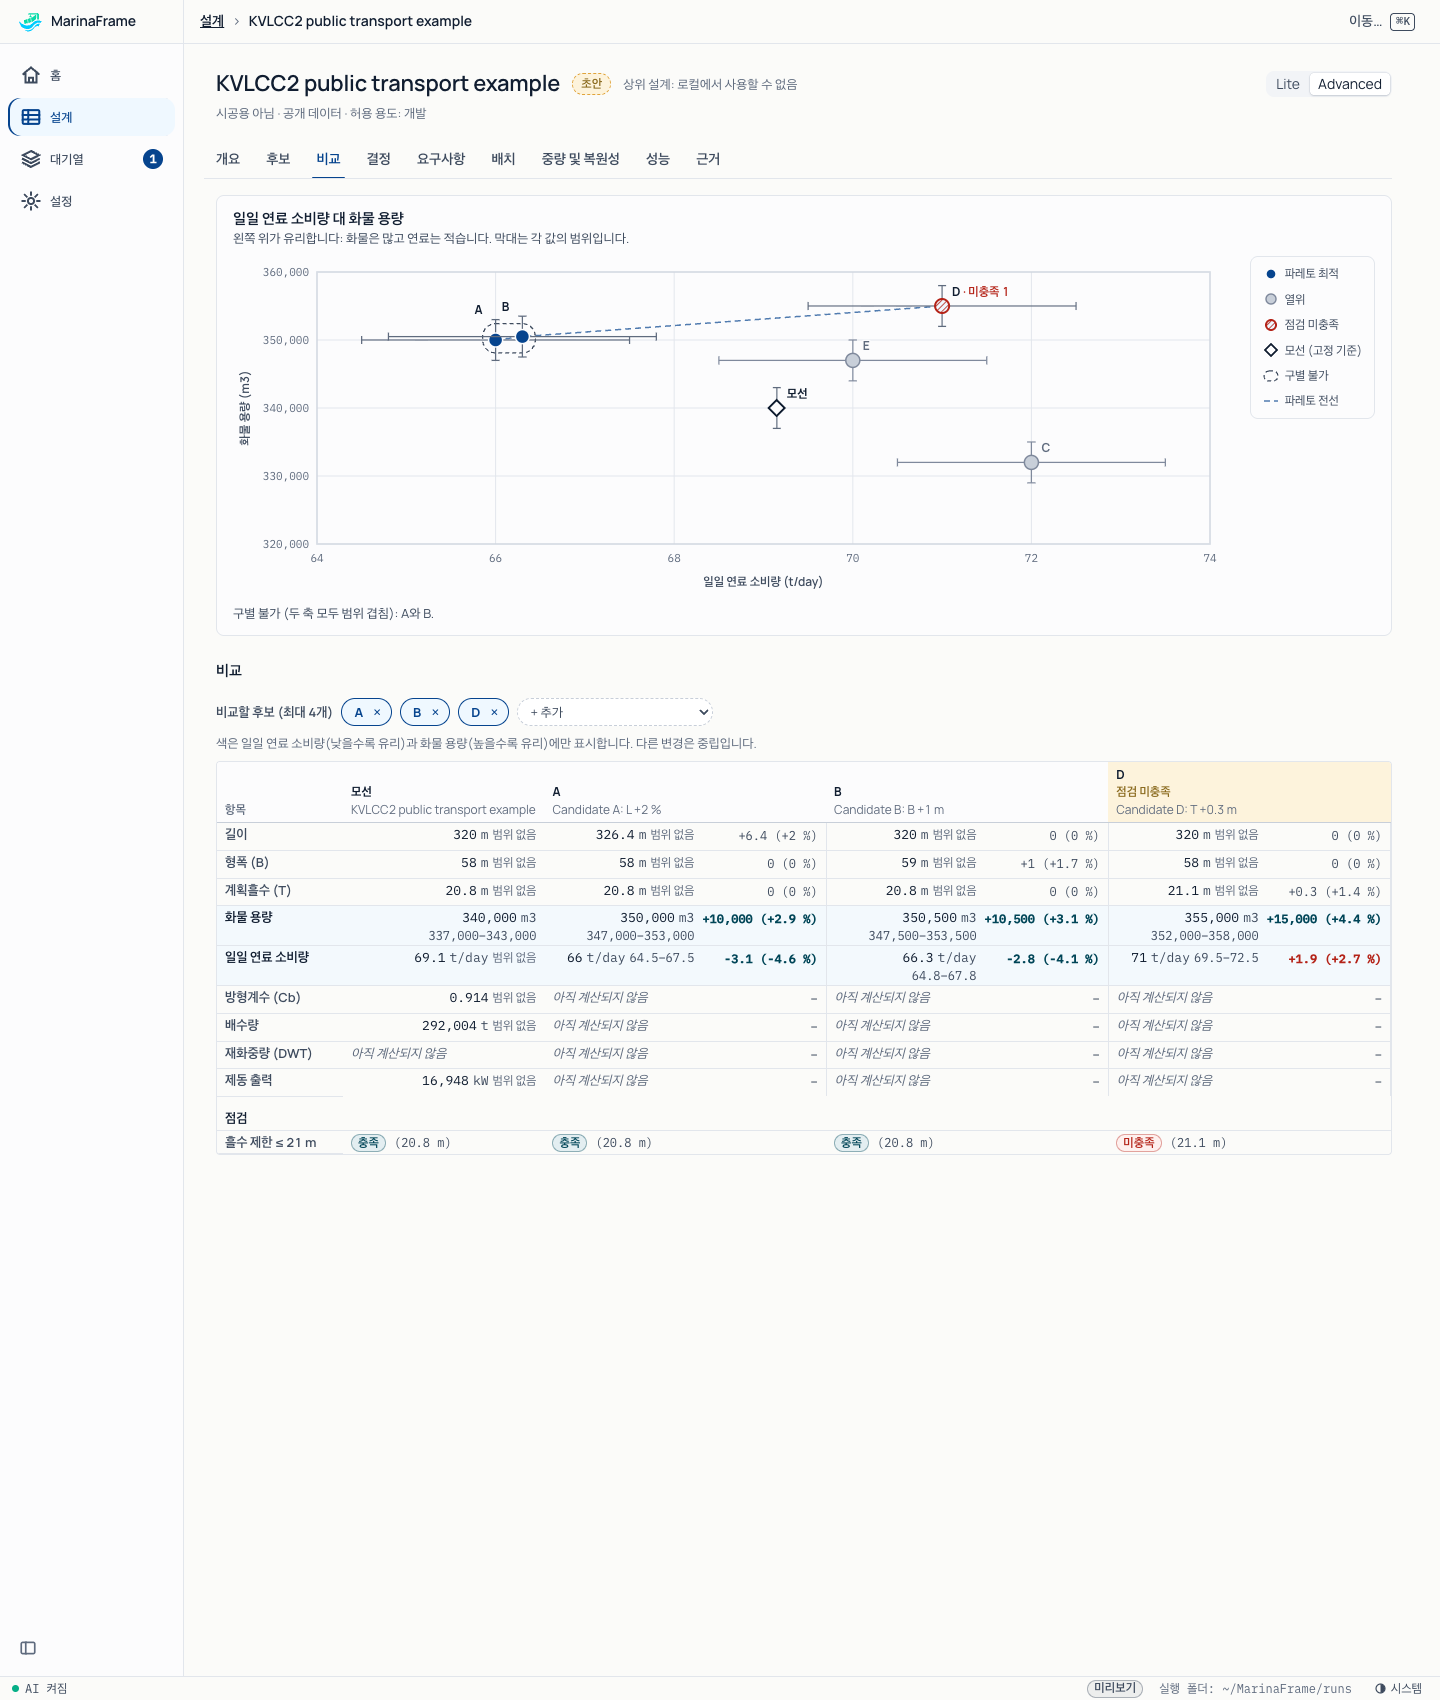
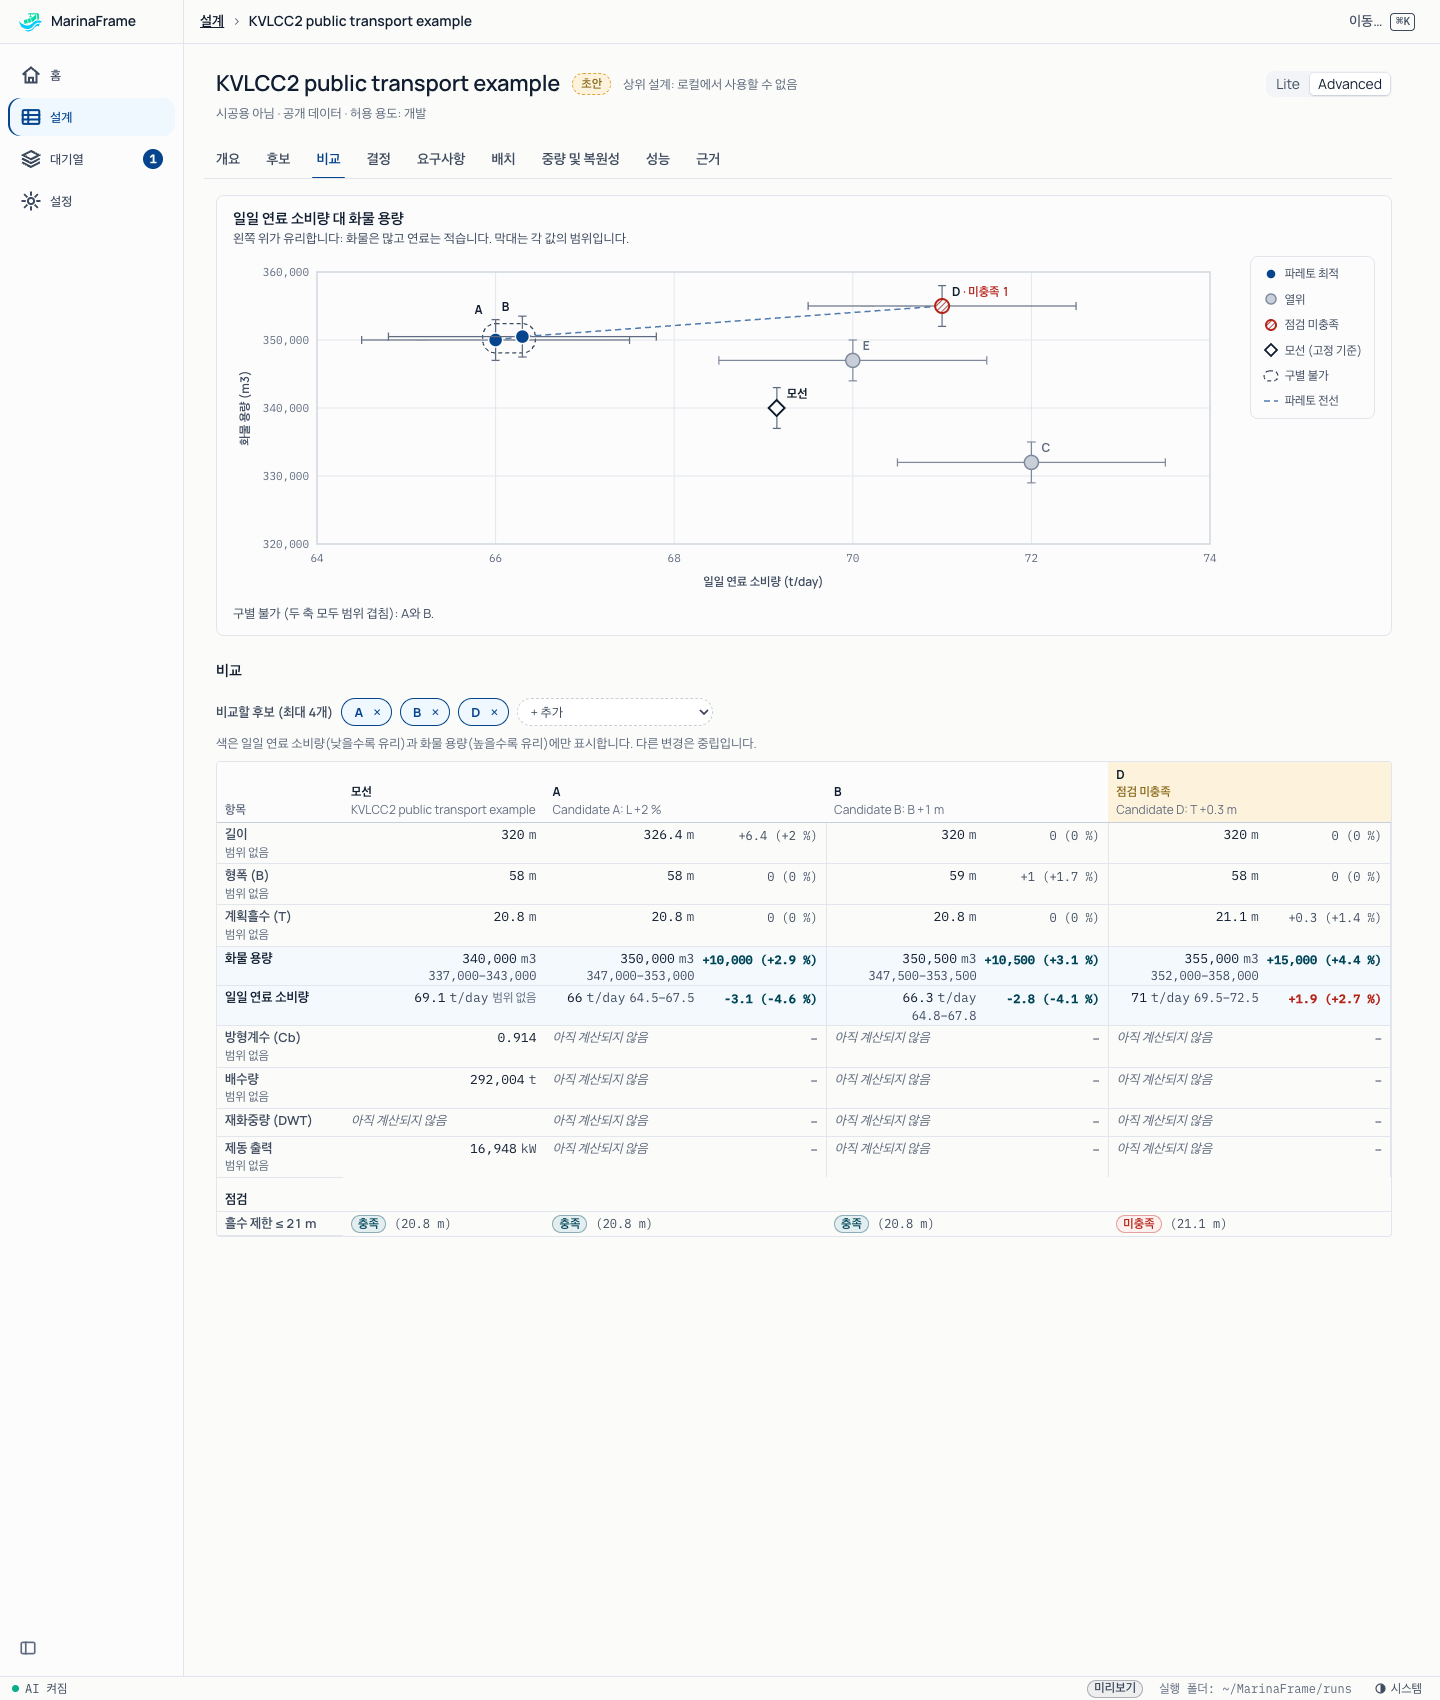
fix(design): one no-band mark per Compare row, narrow Compare, Lite missing list
Compare states "no band" once in the row label when no value in the row has a band.
At narrow widths the labels stay in view, a hint says the columns scroll, and the
Checks rows are no longer hidden by the shared table height limit.
The Lite "Not supplied" list leaves out the customer ID and the decisions field.
Plan progress updated for phase 2.

diff --git a/app/ui/js/design_project.js b/app/ui/js/design_project.js
@@ -231,11 +231,28 @@ function chartFor(project) {
   return paretoChart(project.points, { info: project.info, checkLabel, onOpen: openDesign });
 }
 
+/** True when no known value in the row has a band: the row header then says "no band" once. */
+function rowHasNoBand(row) {
+  const known = [row.parent, ...row.candidates].filter((entry) => entry.state !== 'unknown');
+  return known.length > 0 && known.every((entry) => !entry.quantity.uncertainty);
+}
+
+/** The row label, with one quiet "no band" mark (and its reason) when no value in the row has one. */
+function compareRowHead(row) {
+  if (!rowHasNoBand(row)) return el('th', { scope: 'row' }, fieldLabel(row.path));
+  const known = [row.parent, ...row.candidates].find((entry) => entry.state !== 'unknown');
+  const reason = known.quantity.uncertainty_reason || t('design.notSupplied');
+  return el('th', { scope: 'row' }, fieldLabel(row.path), ' ',
+    el('span', { class: 'dv-noband compare-noband', title: reason }, t('design.noBandMark'),
+      el('span', { class: 'visually-hidden' }, `: ${reason}`)));
+}
+
 /** The value cell and, for a candidate, the delta cell beside it. Unknown is written out. */
 function compareCells(row, entry, isParent) {
+  const noBandMark = !rowHasNoBand(row);
   const value = entry.state === 'unknown'
     ? el('td', { class: 'compare-value' }, missingText({ path: row.path }))
-    : el('td', { class: 'table-num compare-value' }, quantityValue(entry.quantity, { compact: true }));
+    : el('td', { class: 'table-num compare-value' }, quantityValue(entry.quantity, { compact: true, noBandMark }));
   if (isParent) return [value];
   const tone = deltaTone(row.path, entry.delta);
   let delta;
@@ -285,21 +302,23 @@ function compareTable(project, chosenIds) {
     ...designs.map((design, index) => compareHead(project, design, index === 0)));
   // The two Pareto axes (cargo and fuel) have a light tint: the rows the chart is about.
   const valueRows = rows.map((row) => el('tr', { class: row.path === CARGO || row.path === FUEL ? 'compare-axis' : null },
-    el('th', { scope: 'row' }, fieldLabel(row.path)),
+    compareRowHead(row),
     ...compareCells(row, row.parent, true), ...row.candidates.flatMap((entry) => compareCells(row, entry, false))));
   const checkRows = checkKeys.map((key) => {
     const first = designs.map((design) => project.checks.get(design.design_id).find((check) => check.key === key)).find(Boolean);
     return el('tr', {}, el('th', { scope: 'row' }, checkRule(first)),
       ...designs.map((design, index) => checkCell(project.checks.get(design.design_id).find((check) => check.key === key), index ? 2 : 1)));
   });
-  return el('div', { class: 'table-scroll compare-scroll' }, el('table', { class: 'data-table compare-table' },
+  return [el('p', { class: 'compare-scroll-hint' }, t('design.compare.scrollHint')),
+    el('div', { class: 'table-scroll compare-scroll', tabindex: '0', role: 'region', 'aria-label': t('design.compare.caption') },
+      el('table', { class: 'data-table compare-table' },
     el('caption', { class: 'visually-hidden' }, t('design.compare.caption')),
     el('thead', {}, head),
     el('tbody', {}, ...valueRows),
     el('tbody', { class: 'compare-checks' },
       el('tr', {}, el('th', { scope: 'colgroup', colspan: String(columnCount) }, t('design.compare.checks'))),
       ...(checkRows.length ? checkRows : [el('tr', {}, el('td', { colspan: String(columnCount) },
-        el('span', { class: 'design-missing' }, t('design.compare.noChecks'))))]))));
+        el('span', { class: 'design-missing' }, t('design.compare.noChecks'))))]))))];
 }
 
 /** Chosen candidates as chips with a remove button, and a "+" list to add one. */

diff --git a/app/ui/js/design_values.js b/app/ui/js/design_values.js
@@ -55,9 +55,10 @@ export function numberText(value, { compact, unit = null }) {
 /**
  * A quantity: number, unit, then its band or a quiet "no band" mark. The reason for a missing
  * band is the mark's title; `focusable` also shows it on keyboard focus. Every value is a draft
- * (the page header says so); only "Needs review" adds a chip here.
+ * (the page header says so); only "Needs review" adds a chip here. A caller that states the
+ * missing band once for a whole row passes `noBandMark: false`.
  */
-export function quantityValue(quantity, { compact = false, focusable = false } = {}) {
+export function quantityValue(quantity, { compact = false, focusable = false, noBandMark = true } = {}) {
   const shown = designQuantity(quantity);
   const formatted = formatQuantity(shown);
   const unit = quantity.unit === '1' ? '' : quantity.unit;
@@ -65,7 +66,7 @@ export function quantityValue(quantity, { compact = false, focusable = false } =
   let band;
   if (quantity.uncertainty) {
     band = el('span', { class: 'dv-band', title: quantity.uncertainty.basis || null }, formatted.uncertaintyText);
-  } else {
+  } else if (noBandMark) {
     const reason = quantity.uncertainty_reason || t('design.notSupplied');
     band = el('span', { class: 'dv-noband', title: reason, tabindex: focusable ? '0' : null, dataset: { reason } },
       t('design.noBandMark'), el('span', { class: 'visually-hidden' }, `: ${reason}`));

diff --git a/app/ui/js/design_view.js b/app/ui/js/design_view.js
@@ -154,6 +154,9 @@ export function designSections(rows, order = DESIGN_TOPICS) {
 
 // Empty lists that mean "none found", not "not supplied": warning lists and sampling gaps.
 const EMPTY_IS_NONE = /(warnings|disconnected_intervals_m)$|^results\.hull_variation\./;
+// Record keeping, not design inputs: the customer ID is administrative, and decisions have their
+// own tab (they live in a sidecar until schema 1.2). Neither belongs in "what the designer lacks".
+const NOT_A_DESIGN_INPUT = /^(data_scope\.customer_id|designer_decisions)$/;
 
 /**
  * What the designer still lacks, split into results not calculated yet and inputs not supplied.
@@ -162,7 +165,7 @@ const EMPTY_IS_NONE = /(warnings|disconnected_intervals_m)$|^results\.hull_varia
 export function designMissing(record) {
   const view = designView(record);
   const rows = [...view.particulars.filter((card) => card.kind === 'unknown' || card.kind === 'empty'),
-    ...view.unknowns.filter((row) => !EMPTY_IS_NONE.test(row.path))];
+    ...view.unknowns.filter((row) => !EMPTY_IS_NONE.test(row.path) && !NOT_A_DESIGN_INPUT.test(row.path))];
   // A missing container (results.capacities) is already shown by its particulars (deadweight).
   const covered = (row) => !row.key && view.particulars.some((card) => card.path.startsWith(`${row.path}.`));
   const unique = [...new Map(rows.filter((row) => !covered(row)).map((row) => [row.path, row])).values()];

diff --git a/app/ui/styles.css b/app/ui/styles.css
@@ -4167,3 +4167,13 @@ body:not([data-interface="lite"]) .design-lite { display: none; }
 @media (max-width: 900px) {
   .design-overview-lower { grid-template-columns: minmax(0, 1fr); }
 }
+/* "no band" once per row in Compare, in the label column, when no value in the row has a band. */
+.compare-table th[scope="row"] .compare-noband { display: block; font-weight: 400; }
+/* The compare table is short; do not hide its Checks rows behind the shared table height limit. */
+.compare-scroll { max-height: none; }
+/* Narrow widths: the labels stay in view while the candidate columns scroll sideways. */
+.compare-scroll-hint { display: none; margin: 0 0 var(--space-xs); color: var(--ink-3); font-size: var(--fs-xs); }
+@media (max-width: 720px) {
+  .compare-scroll-hint { display: block; }
+  .compare-table th[scope="row"] { position: sticky; left: 0; z-index: 1; min-width: 7.5rem; background: var(--surface); }
+}

diff --git a/app/ui/js/strings/ko.js b/app/ui/js/strings/ko.js
@@ -1268,6 +1268,7 @@ export const KO = {
   "design.compare.choose": "비교할 후보 (최대 4개)",
   "design.compare.chooseMore": "모선과 비교할 후보를 2–4개 고르십시오.",
   "design.compare.caption": "모선과 선택한 후보",
+  "design.compare.scrollHint": "옆으로 스크롤하면 모든 후보를 볼 수 있습니다.",
   "design.compare.field": "항목",
   "design.compare.parentHead": "모선",
   "design.compare.noParentValue": "모선 값 없음",

diff --git a/app/ui/js/strings/en.js b/app/ui/js/strings/en.js
@@ -1268,6 +1268,7 @@ export const EN = {
   "design.compare.choose": "Candidates to compare (up to 4)",
   "design.compare.chooseMore": "Choose 2 to 4 candidates to compare them with the parent.",
   "design.compare.caption": "Parent and the chosen candidates",
+  "design.compare.scrollHint": "Scroll sideways to see every candidate.",
   "design.compare.field": "Quantity",
   "design.compare.parentHead": "Parent",
   "design.compare.noParentValue": "No parent value",

diff --git a/docs/design/2026-11-14-workbench-ux-plan.md b/docs/design/2026-11-14-workbench-ux-plan.md
@@ -170,15 +170,25 @@ Progress (resume here):
   value and warning; Tauri commands `list_design_records` and `open_design_record`
   (`app/src-tauri/src/designs.rs`, records in `<runs folder>/designs/*.json`, validated with
   `DesignRecord::from_json`); mock records: public KVLCC2 and a synthetic Cb variant.
+- Phase 2 step 1, done (2026-11-14): pure comparison views (`app/ui/js/design_compare.js`:
+  compare rows, constraint checks, Pareto points, current decision per candidate and discipline);
+  five synthetic KVLCC2 candidates (A-E) in the mock; decision sidecar per
+  `docs/design/2026-11-14-decision-discipline-proposal.md`: Tauri `list_design_decisions` and
+  `append_design_decision` (`app/src-tauri/src/decisions.rs`, append-only, backend sets id, time and
+  "draft"), with the same checks in the mock backend.
 - Phase 2 step 2, done (2026-11-14): a record with direct children is a project with Candidates,
   Compare (Pareto chart, 4.4) and Decisions tabs (`app/ui/js/design_project.js`,
   `pareto_chart.js`; pure views in `design_compare.js` and `pareto_layout.js`); Lite shows the chart
   and candidate cards; `#design/<id>/<tab>` opens a tab; English and Korean; screenshots in
-  `docs/design/images/2026-11-14-phase2/`. Still open: the Lite brief that runs the full loop.
-- Earlier note, kept: phase 2 (candidates list, Compare, Pareto chart, Decisions log); it needs a command that
-  lists the candidates of a project and a project object in the record or beside it. Small fixes:
-  the Lite "Not supplied" list shows administrative fields (customer ID) that designers do not need;
-  the "Needs you" card icons still show the body-plan sketch.
+  `docs/design/images/2026-11-14-phase2/`. Layout ideas came partly from two generated concept
+  images (not committed). Compare states "no band" once per row; at narrow widths the labels stay
+  in view and the candidate columns scroll.
+- Small fixes, done (2026-11-14): the Lite "Not supplied" list leaves out the customer ID and the
+  decisions field; "Needs you" cards show the vessel thumbnail.
+- Next: the Lite brief that runs the full loop and returns 3 candidates (needs the loop command);
+  phase 3 (References). Open details: the HTTP server backend has no design commands; Overview
+  cards still round a 0.1 m length change away; the Candidates tab refreshes only when reopened
+  after a decision is recorded; dominated points are only a little greyer than front points in dark.
 - Open: a yard designer must review `app/ui/js/strings/glossary.js` before the pilot.
 
 ## 7. Founder decisions (2026-11-14)
